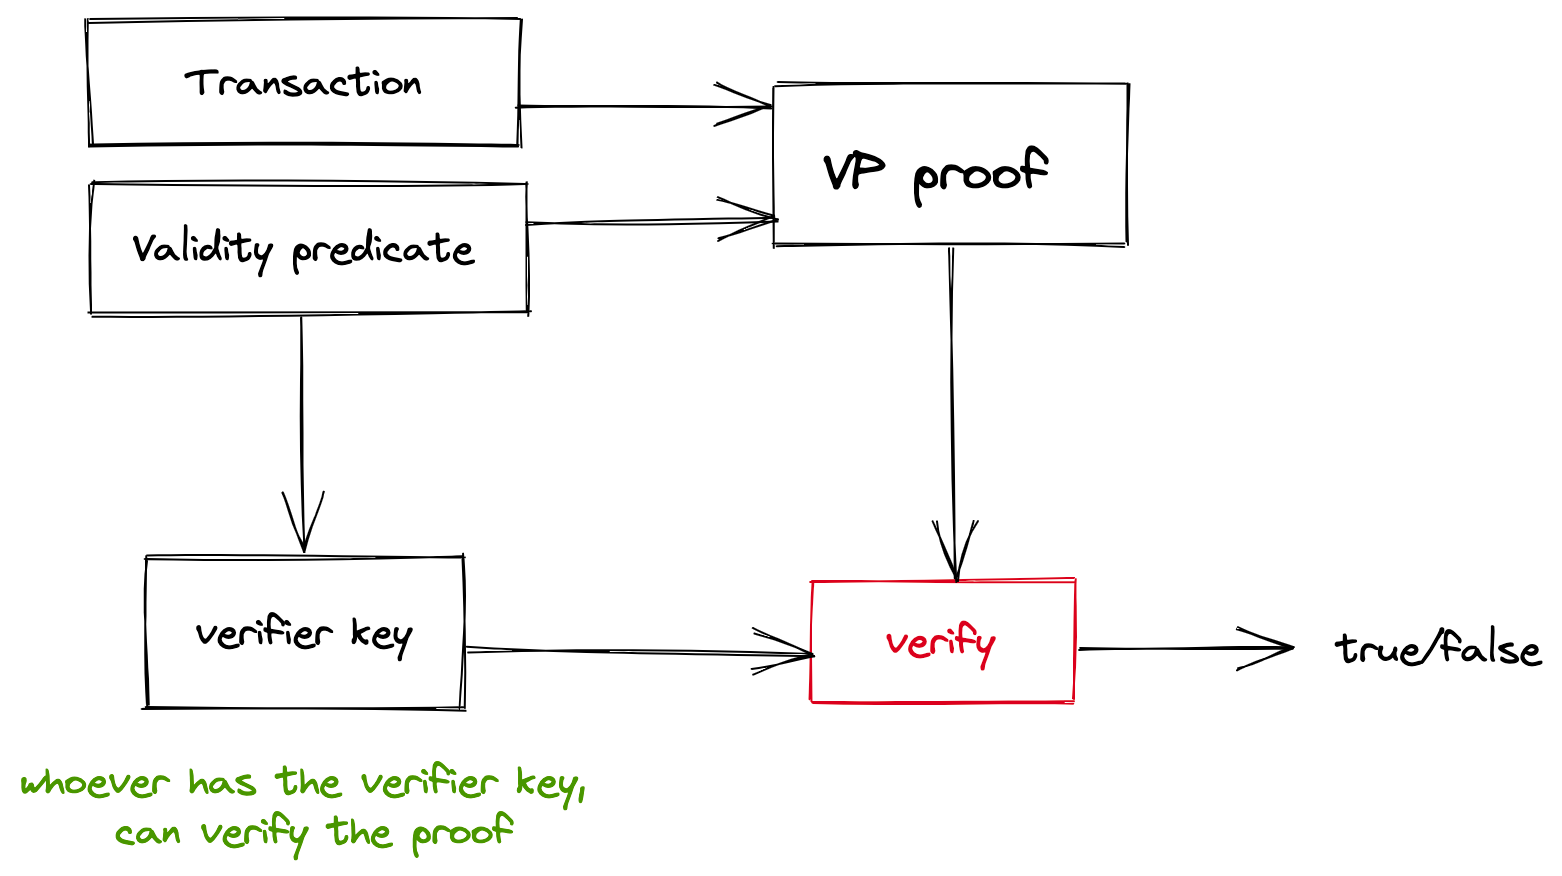
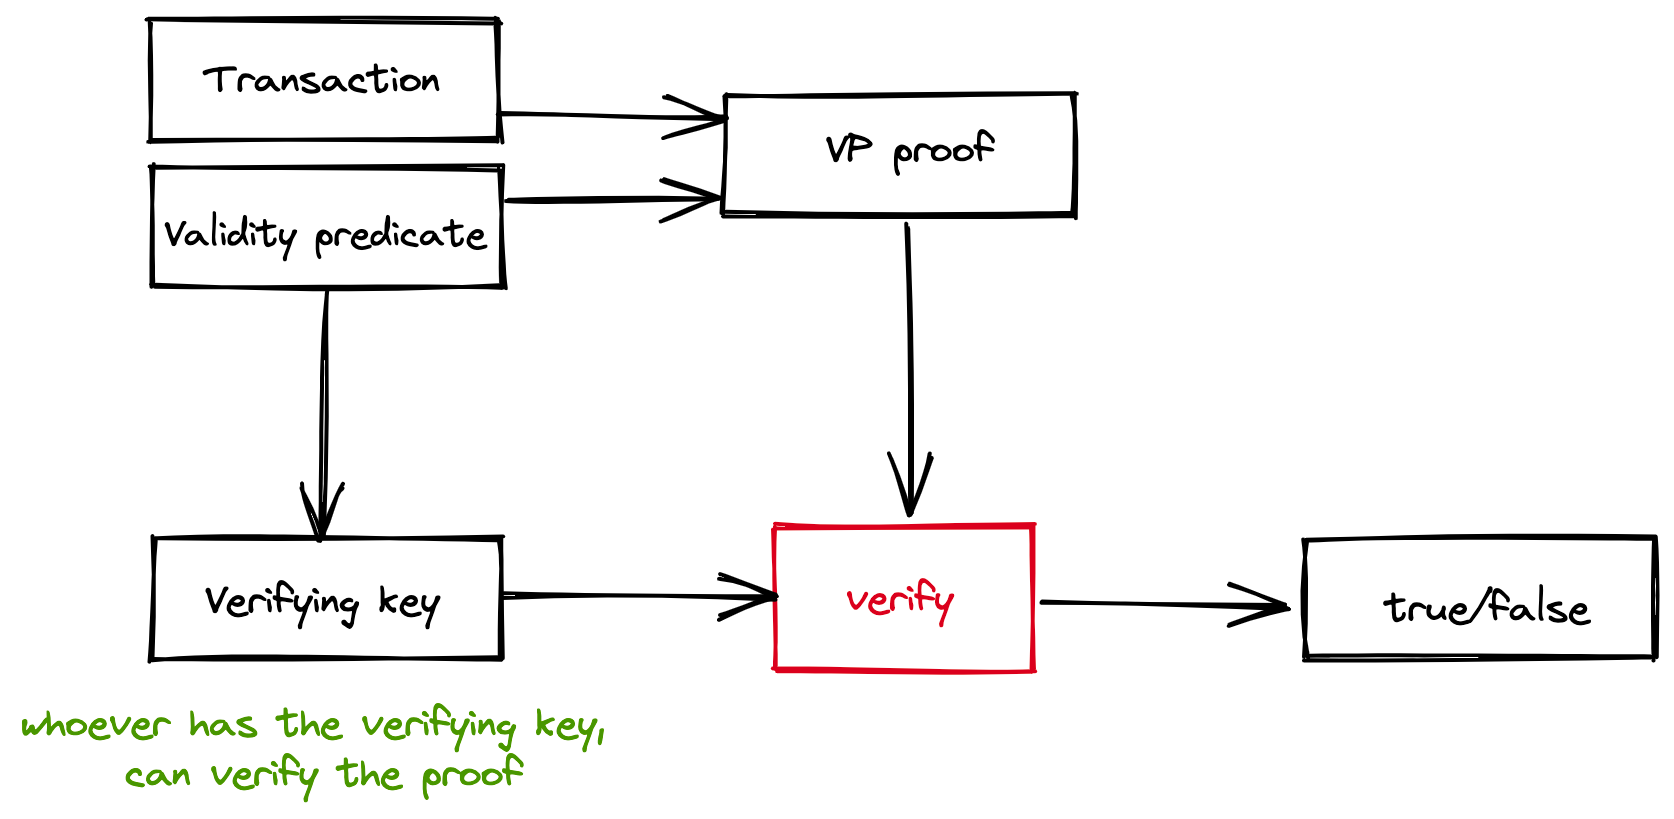
Rewrite action and performance, update diagrams and some questions answered on the call

Changed region(s): [[0.0307, 0.0, 1.0, 0.8242], [0.0, 0.8547, 0.3688, 0.9768], [0.0307, 0.2137, 0.0615, 0.2442]]

diff --git a/book/src/app.md b/book/src/app.md
@@ -1,18 +1,19 @@
 # Application
 
-In Taiga, applications express their logic in validity predicates (often referred as `appVP`) that are checked each time the application's state is about to be changed. So, if a suggested state transition breaks the application rules, the `appVP` of that application won't approve the transaction. 
-
+In Taiga, applications express their logic in validity predicates (often referred as `appVP`) that are checked each time the application's state is about to be changed. 
+So, if a suggested state transition breaks the application rules, the `appVP` of that application won't approve the transaction. 
 
 As Taiga works in the UTXO model, application states are stored in notes, and changing the application state is done by spending old application state notes and creating new application state notes.
 
-Applications in Taiga are shielded, which means that the `appVP` of each application is hidden, the notes containing application states are encrypted, and the produced transactions don't reveal any information about the applications they change the state of. 
+Applications in Taiga are shielded, which means that the `appVP` of each application is hidden, the notes containing application states are encrypted, 
+and the produced transactions don't reveal any information about the applications they change the state of. 
 
 ![img.png](img/app_intro.png)
 
 #### Is it like Ethereum?
 
 In some sense, Taiga applications are similar to Ethereum applications, but there are two key distinctions that come to mind:
-* Ethereum uses smart contracts (imperative) when Taiga uses validity predicates (declarative) to express the application logic (you can learn more about the difference in the Anoma whitepaper)
+* Ethereum uses smart contracts (imperative) when Taiga uses validity predicates (declarative) to express the application logic (learn more about the difference in the [Anoma whitepaper](https://github.com/anoma/whitepaper/blob/main/whitepaper.pdf), check page 3)
 * Taiga applications are shielded by default, but can be defined separately over the transparent pool as well. The shielded and transparent parts of the application can interact with each other, but whatever happens in Taiga is always shielded
 
 
@@ -22,12 +23,12 @@ Each application has an [`appVP`](./validity-predicates.md) that defines the con
 `AppVP` might also require validity of other VPs, enforcing a VP hierarchy with an `appVP` being the main VP checked. This might be userful, for example, when an application has users and allows them to express their interests by supporting user-defined validity predicates. In that case, the application is responsible for making sure the users' interests are satisfied - Taiga is agnostic of sub-VPs.
 
 #### Application notes
-The application a note belongs to is indicated by the note's type. The note type is derived from the application VP, but might be further specified so that an application can have notes of multiple types which all belong to the same application. Notes of distinct types are independent of each other, unless explicitly designed.
+The application a note belongs to is indicated by the note's type. The note type is derived using the application address, that is itself derived from the application VP. 
+The note type might be further specified so that an application can have notes of multiple types all of which belong to the same application. 
+Notes of distinct types are independent of each other, unless explicitly designed.
 
 ![img_1.png](img/app_with_multiple_note_types.png)
 
 #### Example
 - a cryptocurrency application CUR (matches the token name) and `appVP` that makes sure that the transaction is balanced
 
-#### Apps address
-Applications are identified by addresses that are derived from their `appVP`s. 

diff --git a/book/src/conclusion.md b/book/src/conclusion.md
@@ -1,65 +1,10 @@
 # Conclusion
 
-For a technical overview of Taiga, see the [technical specification](spec.md).
-
 ## Performance
-The performance is significantly affected by the proof generation, i.e. the number of proofs and the size of the different circuits.
+Action circuit has constant size (about $2^{15}$ gates), while VP circuit size changes from application to application. 
+In our benchmarks we checked a VP circuit containing about $2^{17}$ gates.
 
-In a transaction, the action circuit is fixed. The VP circuit size depends on the number of notes and the custom constraints set by the users and applications.
-As we have seen in the [transaction](/book/src/transaction.md), the number of notes in a transaction affects the number of proofs: for `NUM_NOTES` notes in a transaction, there is `9 * NUM_NOTES` proofs to be computed (of different circuit size).
-We provide here the benchmarks of a transaction for different numbers of notes.
-
-### Performance of the action and blidning proofs
-The performance of the action and blinding proofs are independent from the number of notes. In our current implementation, action and blinding circuit has roughly $2^{15}$ gates.
-
-|Action proof step|Time|Blinding proof step|Time|
+|Step|Action circuit|VP circuit|
 |-|-|-|-|
-|Compile|4s|Compile|17s|
-|Prove|4s|Prove|19s|
-|Verify|9ms|Verify|43ms|
-
-### Performance of a VP proof
-Customizable VPs will have different number of gates. We provide here the benchmark for $2^{17}$ gates:
-
-|Operation |Time|
-|-|-|
-|Compile|17s|
-|Prove|17s|
-|Verify|14ms|
-
-### Performance of a transaction
-
-From the previous benchmarks, we can perform a full transaction with different numbers of notes:
-* With `NUM_NOTE = 4`, a transaction includes 4 action proofs, 16 VP proofs and 16 blinding proofs:
-
-|Operation |Time|
-|-|-|
-|vp compile + tx prove|1160 s|
-|verify|844ms|
-
-* With `NUM_NOTE = 3`, a transaction includes 3 actions proofs, 12 VP proofs and 12 blinding proofs:
-
-|Operation |Time|
-|-|-|
-|vp compile + tx prove|591 s|
-|verify|587ms|
-
-* With `NUM_NOTE = 2`, a transaction includes 2 action proofs, 8 VP proofs and 8 blinding proofs:
-
-|Operation |Time|
-|-|-|
-|vp compile + tx prove|436 s|
-|verify| 555ms|
-
-
-### Potential performance improvement
-The overall cost of a transaction is too expensive but there are several way of improvements:
-* The proof generation can be parallelized between the different actors of Taiga (sender, receiver, application, etc.)
-* Circuits are not optimized and the size can be reduced by improving the basic gadgets, refining the local data, etc.
-
-# The next steps
-Still, there are several circuits and implementation tasks to do in order to make Taiga working completely:
-* The action circuit requires an implementation of a hash function that can be efficient over two fields. We plan to use the Blake2 function but the circuit is not available in the PLONK implementation of ZK-Garage [#56](https://github.com/anoma/taiga/issues/56). However, there is an implementation from Joshua that could be adapted.
-* We use Poseidon for hashing into `MainCurve::BaseField`. It requires generating parameters that do not work for this size of modulus.
-* The encryption part of Taiga is not implemented yet. A verifiable encryption circuit [#7](https://github.com/anoma/taiga/issues/7) needs to be chosen and implemented.
-* The ledger integrity [#6](https://github.com/anoma/taiga/issues/6) needs to be implemented (e.g. the commitment tree implementation, the interface with the ledger, etc.).
+|Prove|1.7s|0.9s|
+|Verify|16.6ms|15ms|

diff --git a/book/src/action.md b/book/src/action.md
@@ -1,29 +1,23 @@
-# Action
+# Action circuit
 
-The action is a mechanism that allows a user to spend or create [notes](notes.md) by proving the right to do so using ZK proofs.
+Every time a user wants to create or spend a note, 
+Action circuit check is required to make sure that the user doesn't violate Taiga rules. 
+The conditions checked in the Action circuit are the same for all transactions, 
+unlike validity predicate checks that depend on the applications involved in the transaction.
 
-## Spending a note
+### Spent note checks
 
-To spend a note, the users need to prove that they are allowed to do so, namely:
-- To make sure that the correct `AppVP` is checked, prove the relationship between `app_VK` and the application field in the spent note.
-  ![img_3.png](img/action_img_3.png)
-- To make sure the correct `SendVP`(read more about `SendVP` [here](deprecated/users.md)) is checked, prove the relationship between `send_VK` and the owner field in the spent note.
-- Compute the nullifier of the spent note (using the nullifier key `nk`) so that it cannot be double-spent. To make sure that the nullifier is computed correctly, prove the relationship between `nk` and the owner field in the spent note.
+For spent notes, Action circuit checks that:
+* the note existed before (can you spend a note that doesn't exist?),
+* the note haven't been spent yet,
+* the user has a right to spend it (do you own the note?),
+* and that the application the note belongs to approves the action (sure there is some application approves the check, but is it the one the note belongs to?).
 
-![img_1.png](img/action_img_1.png)
+### Created note checks
 
-## Creating a note
+For the notes being created, Action circuit checks that:
+* the correct application approves it (same check as for spent notes)
+* and the note commitment is derived correctly (the thing that makes everyone to know that the note exists)
 
-To create a note, the user also needs to prove the right to do so. `AppVP` must allow the creation of the note, as well as recipient user's `RecvVP`:
 
-- To make sure that the correct `AppVP` is checked, prove the relationship between `app_VK` and the application field in the note to be created.
-  ![img_4.png](img/action_img_4.png)
-
-- To make sure the correct `RecvVP` is checked (read more about `RecvVP` [here](deprecated/users.md)), prove the relationship between `recv_VK` and the owner field of the note to be created.
-  ![img.png](img/action_img.png)
-  
-- To make sure that the [note](./notes.md) commitment `cm` is derived correctly, prove the relationship between `cm`, the note, and the receiver of the note
-
-![img_2.png](img/action_img_2.png)
-
-To see a more detailed description of the action circuit checks, see the [specification](./spec.md). See also the [action implementation](https://github.com/anoma/taiga/blob/main/src/action.rs) and the [action circuit implementation](https://github.com/anoma/taiga/blob/main/src/circuit/action_circuit.rs) for more details.
+To learn in details about the checks Action circuit performs, check the [technical specification of Taiga](./spec.md).

diff --git a/book/src/validity-predicates.md b/book/src/validity-predicates.md
@@ -18,12 +18,15 @@ Every VP is called **once** per transaction to validate the state transition (e.
 - lower bound VP restricts the smallest amount of asset that can be received
 
 ### Hierarchical VP structure
-Validity predicates in Taiga have a hierarchical structure. For all applications involved in a transaction, their `ApplicationVP` must be checked. These VPs might require validity of some other VPs in order for a transaction to be considered valid. In that case, those other VPs must be checked too.
+Validity predicates in Taiga have a hierarchical structure. For all applications involved in a transaction, their `ApplicationVP` must be checked. 
+These VPs might require validity of some other VPs in order for a transaction to be considered valid. 
+In that case, those other VPs must be checked too.
 
-#### Example of a sub VP
-Token applications might have `userVP` for each user where they can define on which conditions they want to transact with other users. In this case `applicationVP` would require the validity of userVPs of all users involved in a transaction.
+Hierarchical structure of VPs might come in handy in the situations where the application wants to enforce different checks depending on the use case. 
+One example of it could be applications that have users and allow them to have `userVP`s. 
+The application VP will enforce checking the userVP of each user involved in the transaction.
 
-TODO: add a diagram
+![img.png](img/vp_hierarchy.png)
 
 ### Transparent vs schielded VPs
 Validity predicates can be both transparent and shielded. Transparent VPs are represented as WASM code and publicly visible, shielded VPs are represented as arithmetic circuits hidden under ZKPs.
@@ -49,11 +52,5 @@ All validity predicates share the same *public input interface*, but can have di
 
 While not formally required, most validity predicates are expected to have all spent notes (representing the current state) and output notes (representing the next proposed state) as private input to verify that the state transition is allowed.
 
-##### ----------
-
-The VP configuration includes the following "gates" in the PLONK configuration:
-* Field addition/multiplication
-* Elliptic curve addition and scalar multiplication
-* Poseidon hash
 
 

diff --git a/book/src/deprecated/unsorted.md b/book/src/deprecated/unsorted.md
@@ -15,3 +15,10 @@ VPs take the current and next proposed state as input and check if the state tra
 ##-
 
 Informally, transactions take a private subset of unspent notes from the Taiga note set, publicly reveal their nullifiers, and reveal a new set of note commitments to add to the Taiga note set. The Action/Execute circuit verifies consistency of this state transition, but does not check directly its validity. Instead, the validity predicate circuits must check the validity of the state transition. The following VPs are called:
+
+##### ----------
+
+The VP configuration includes the following "gates" in the PLONK configuration:
+* Field addition/multiplication
+* Elliptic curve addition and scalar multiplication
+* Poseidon hash
